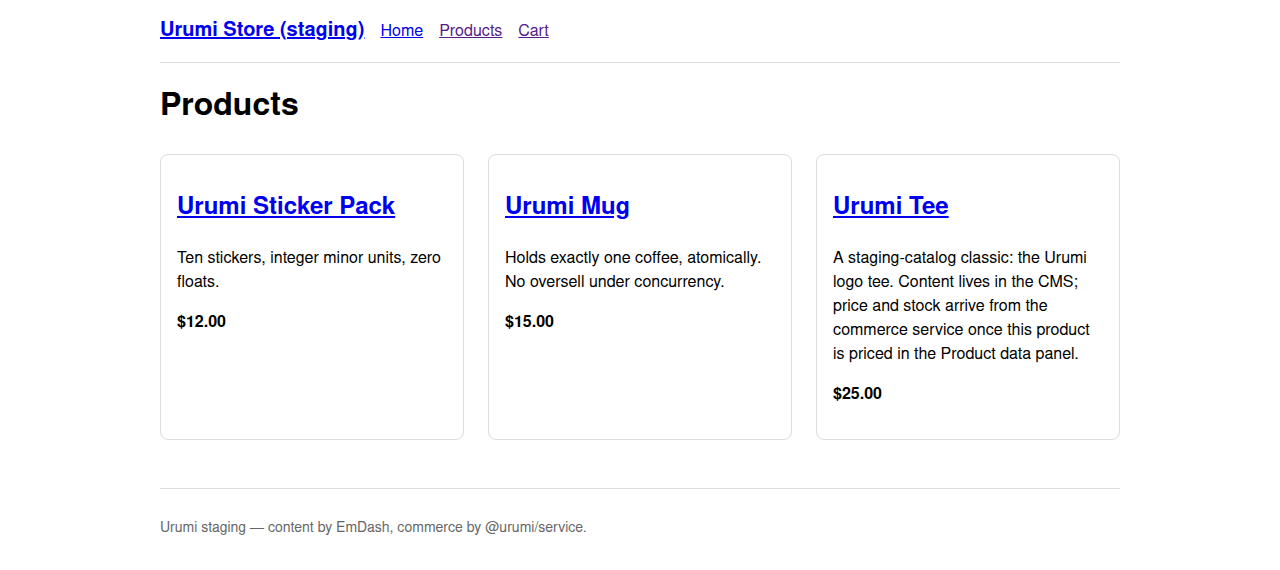
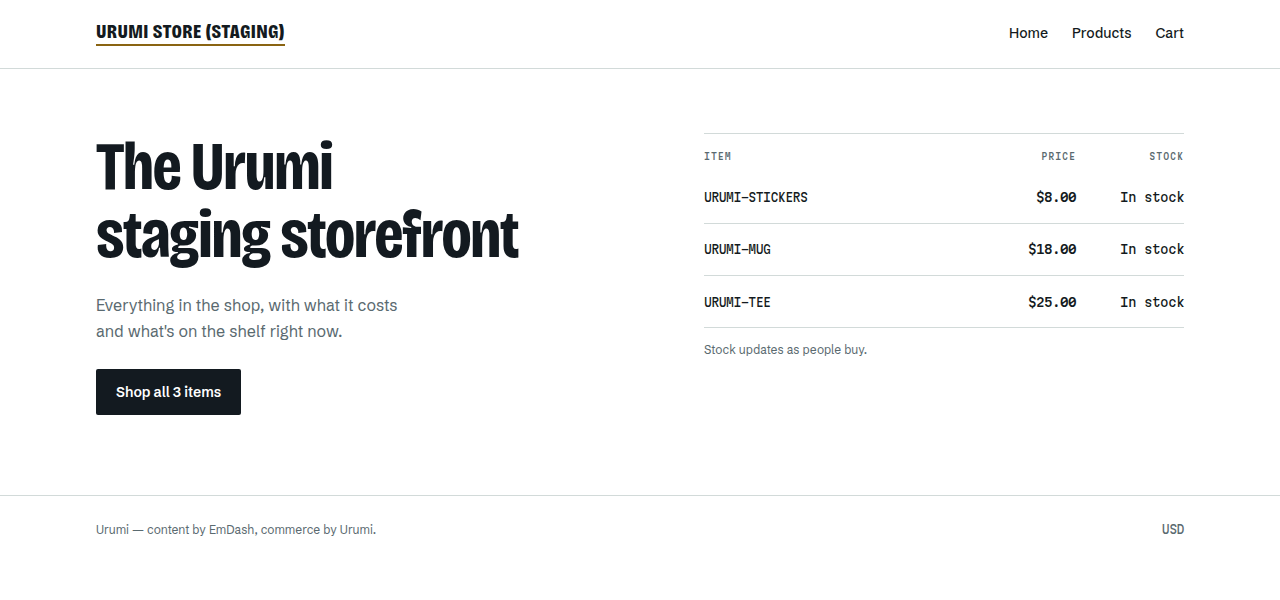
[Docs] README: refresh the hero screenshot for the Tempered theme
The committed hero still showed the pre-theme storefront (default link
styling, bordered cards). Replace it with the current design: the home
page's display headline and tagline beside the inventory tape, with live
SKU / price / stock rows served by the commerce service.

Shot from the deployed reference site at 1280x600, light theme.

Framing note: this is the HOME page rather than the product grid the old
image used. The grid renders each product's description, and the seeded
descriptions still carry copy we do not want as the project's first
impression — one of them markets an availability guarantee we deliberately
avoid claiming, and another explains our own CMS internals to shoppers.
The home page shows the theme's character without that copy. When the
storefront copy pass lands, the grid becomes a fair candidate again.

The alt text and caption are updated to match: the image no longer shows
titles and descriptions, and it is no longer a local run.

diff --git a/README.md b/README.md
@@ -6,10 +6,10 @@
 Open source (MIT), version 0.0.1. The WooCommerce-equivalent for
 [EmDash](https://github.com/emdash-cms/emdash), Cloudflare's TypeScript CMS.
 
-![The Urumi storefront: a product listing with three sample products, each showing a title, description, and price](./docs/storefront.png)
+![The Urumi storefront home page: a large headline and tagline beside a table of three products, each row listing its SKU, price, and stock state](./docs/storefront.png)
 
-<sub>The reference storefront running locally, with prices and stock served by the commerce
-service — this is what the [quick start](#quick-start-local-2-minutes) below gives you.</sub>
+<sub>The reference storefront, with prices and stock served by the commerce service — the
+[quick start](#quick-start-local-2-minutes) below gives you the same thing locally.</sub>
 
 ## What this is
 
